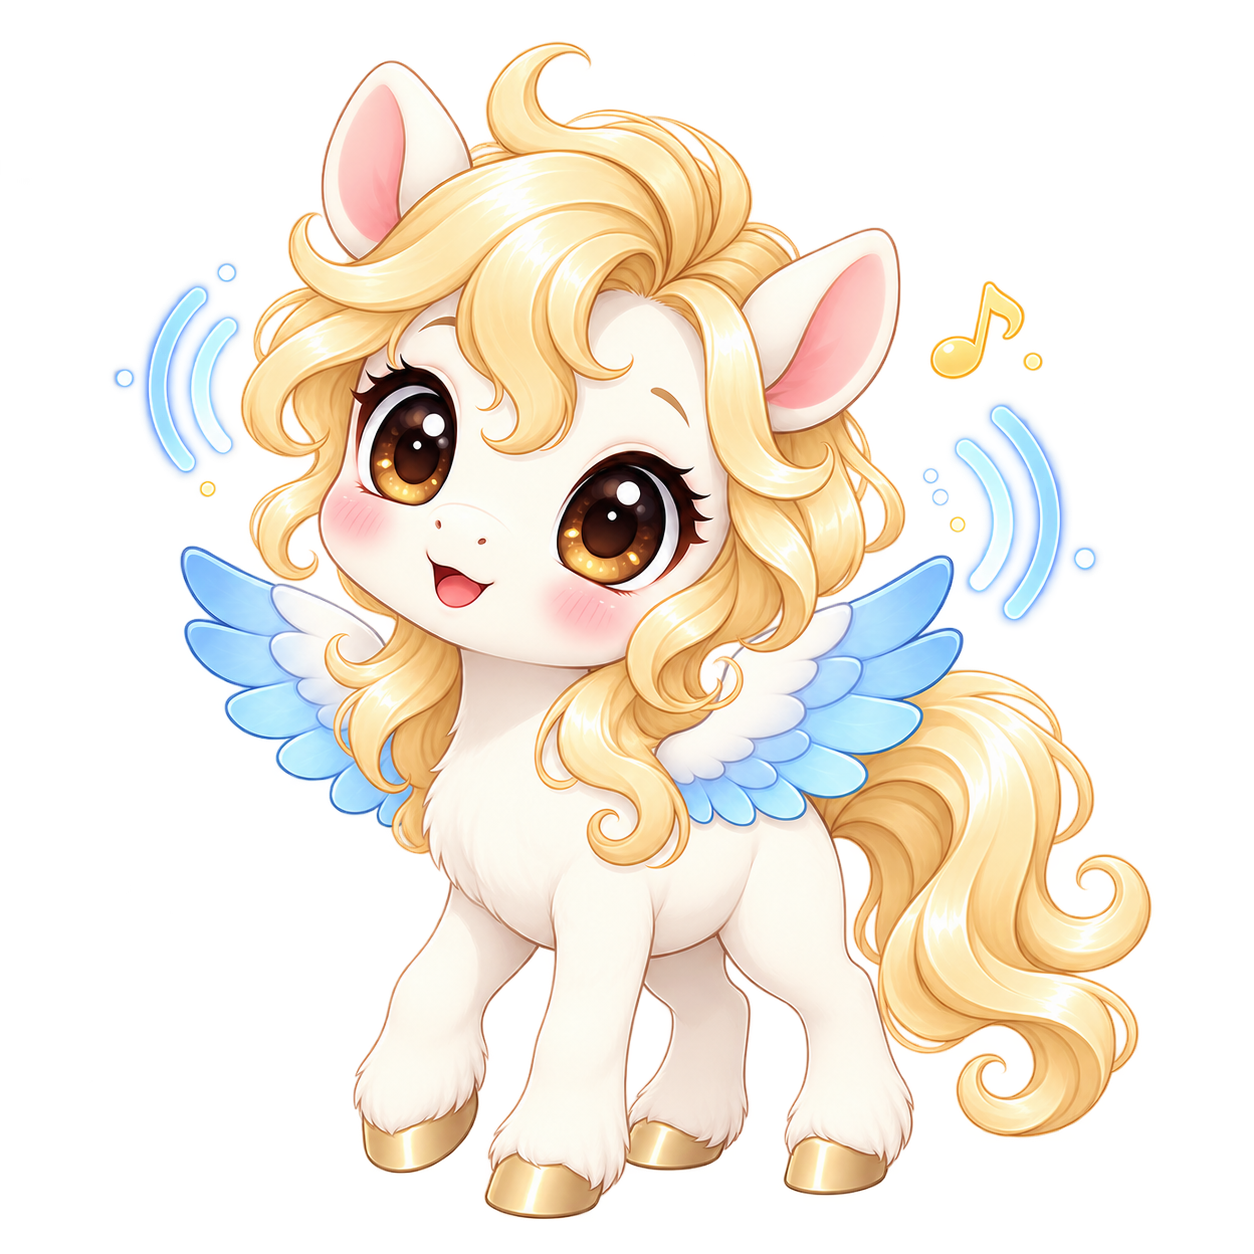
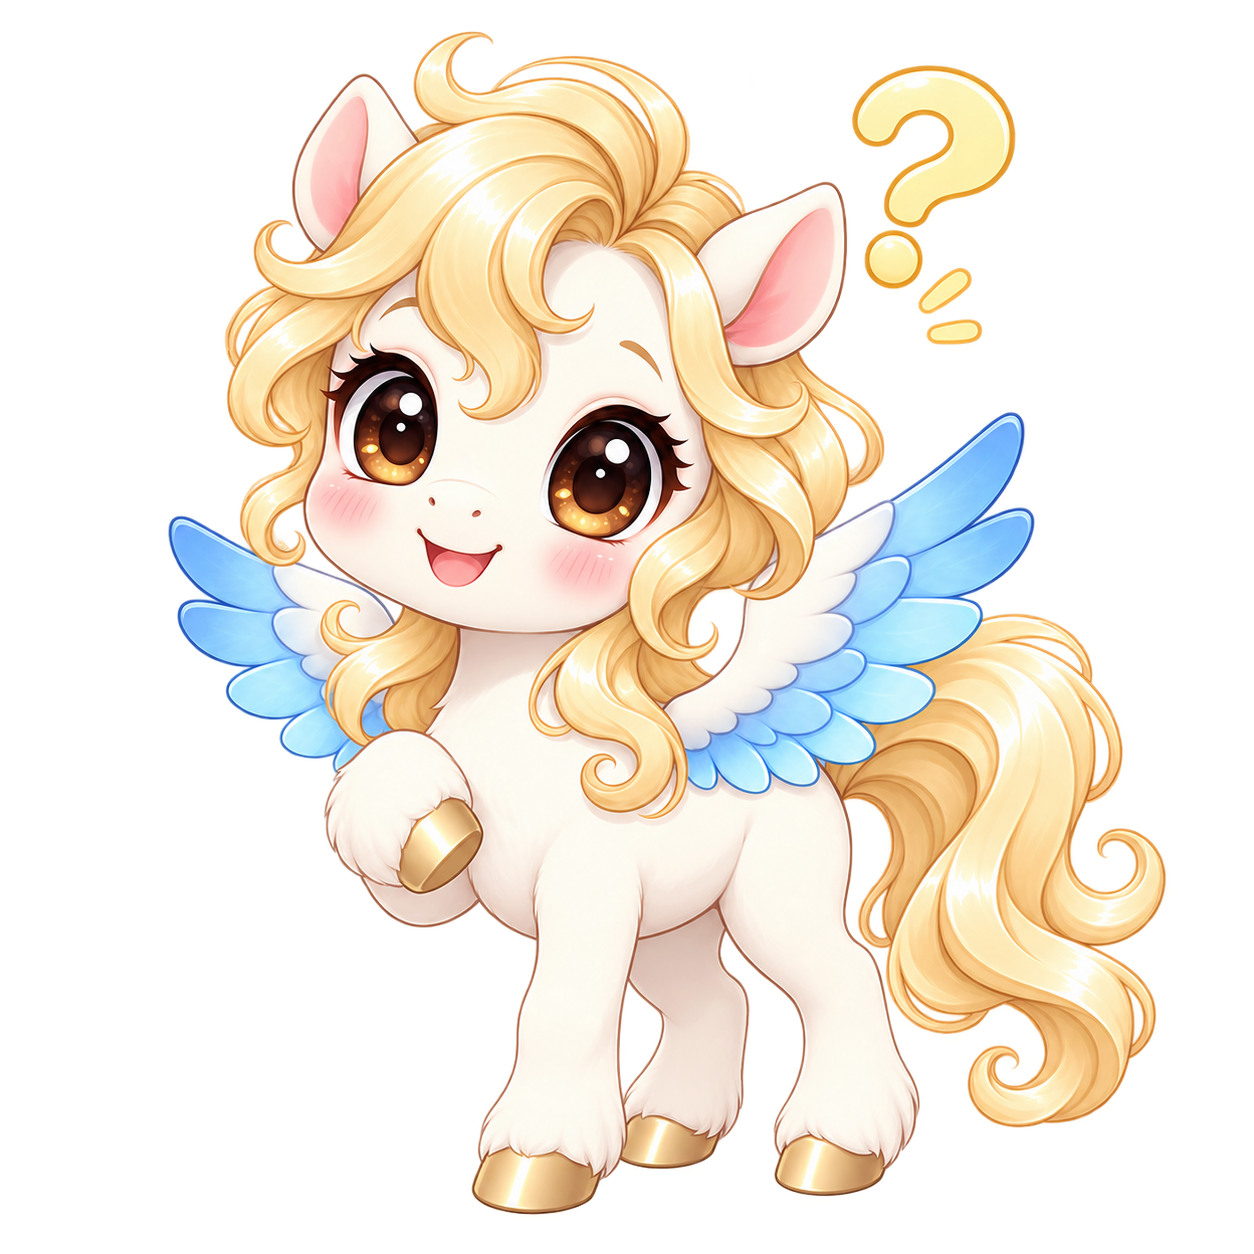
Fix sprite-state mapping per vision audit; use new executing sprite
Vision audit (deepseek-v4-flash-vision-exp) of the 8 sprites corrected the
phase mapping — most originals were mismatched:
- transcribing.png was actually the question-mark (awaiting_confirm) sprite,
  which is why the pet showed a '?' during recognition (user report).
- Correct mapping: idle=img02, recording=img05(sound waves),
  transcribing=img06(thinking bubble+gear), awaiting_confirm=img04('?'),
  executing=img03(flying) -> replaced with user-provided processing/gear
  sprite (df2dc970), done=img07(confetti), error=img01(tears), base=img08.

User generated a new executing sprite (gear + processing vibe, standing pose);
installed as ui/pet/executing.png. Old flying sprite kept in git history.

diff --git a/executor/actions.py b/executor/actions.py
@@ -37,6 +37,15 @@ _VOLUME_ACTIONS = {
     "toggle_mute": ["omarchy", "audio", "output", "volume", "mute-toggle"],
 }
 
+# Simple conventional toggles / launchers (no arguments).
+_SIMPLE_TOGGLES = {
+    "toggle_dnd": ["omarchy", "toggle", "notification", "silencing"],
+    "toggle_mic": ["omarchy", "audio", "input", "mute"],
+    "toggle_bar": ["omarchy", "toggle", "bar"],
+    "open_clipboard": ["omarchy", "menu", "clipboard"],
+    "open_emoji": ["omarchy", "menu", "emoji"],
+}
+
 
 def _launch_detached_cmd(command: str) -> None:
     """Launch a config-supplied command without waiting (never blocks).
@@ -115,6 +124,26 @@ def _open_path(path: str) -> tuple:
     if shutil.which("gio"):
         return _run(["gio", "open", path], timeout=15)
     return _run(["xdg-open", path], timeout=15)
+
+
+def _state_action(action_type: str, state: str) -> tuple:
+    """Run a state-carrying toggle (on/off/toggle) via the conventional command."""
+    if action_type == "set_wifi" and state == "toggle":
+        ok, out = _run(["nmcli", "radio", "wifi"])
+        if ok:
+            state = "off" if "enabled" in out.lower() else "on"
+    if action_type == "set_nightlight":
+        cmd = ["omarchy-shell", "nightlight", state]
+        return _run(cmd, timeout=15)
+    if action_type == "set_bluetooth":
+        return _run(["omarchy", "bluetooth", "power", state], timeout=15)
+    if action_type == "set_wifi":
+        return _run(["nmcli", "radio", "wifi", state], timeout=15)
+    if action_type == "set_touchpad":
+        return _run(["omarchy", "toggle", "touchpad", state], timeout=15)
+    if action_type == "set_power_mode":
+        return _run(["omarchy", "powerprofiles", "set", "autodetect", state], timeout=15)
+    return False, "unknown state action"
 
 
 def _launch_or_focus(target: dict) -> tuple:
@@ -226,5 +255,37 @@ def execute(action: dict, cfg: dict) -> tuple:
 
     if action_type == "lock_screen":
         return _run(["omarchy", "system", "lock"], timeout=20)
+
+    # ---- batch 1: conventional toggles ----
+    if action_type in ("toggle_dnd", "toggle_mic", "toggle_bar"):
+        return _run(_SIMPLE_TOGGLES[action_type], timeout=15)
+
+    if action_type in ("open_clipboard", "open_emoji"):
+        return _run(_SIMPLE_TOGGLES[action_type], timeout=15)
+
+    if action_type in ("set_nightlight", "set_bluetooth", "set_wifi", "set_touchpad", "set_power_mode"):
+        return _state_action(action_type, target.get("state", "toggle"))
+
+    # ---- batch 2: parameterized ----
+    if action_type == "set_reminder":
+        minutes = int(target.get("minutes", 1))
+        message = str(target.get("message") or "")
+        return _run(["omarchy", "reminder", str(minutes), message], timeout=15)
+
+    if action_type == "brightness_up":
+        return _run(["omarchy", "brightness", "display", "+10%"], timeout=15)
+
+    if action_type == "brightness_down":
+        return _run(["omarchy", "brightness", "display", "10%-"], timeout=15)
+
+    # ---- batch 3: destructive / privacy-sensitive ----
+    if action_type in ("shutdown", "reboot", "logout"):
+        return _run(["omarchy", "system", action_type], timeout=30)
+
+    if action_type == "screen_record_start":
+        return _run(["omarchy", "capture", "screenrecording", "--fullscreen"], timeout=20)
+
+    if action_type == "screen_record_stop":
+        return _run(["omarchy", "capture", "screenrecording", "--stop-recording"], timeout=20)
 
     return False, "unknown action type: %s" % action_type

diff --git a/resolver/lookup.py b/resolver/lookup.py
@@ -337,6 +337,23 @@ def resolve_action(action: dict, cfg: dict, aliases: dict) -> dict | None:
             return None
         target = {"kind": "workspace", "id": ws}
 
+    elif action_type in ("set_nightlight", "set_bluetooth", "set_wifi", "set_touchpad"):
+        state = raw or "toggle"
+        if state not in ("on", "off", "toggle"):
+            state = "toggle"
+        target = {"kind": "setting", "state": state}
+
+    elif action_type == "set_power_mode":
+        state = raw if raw in ("power-saver", "balanced", "performance") else "balanced"
+        target = {"kind": "setting", "state": state}
+
+    elif action_type == "set_reminder":
+        try:
+            minutes = int(draft.get("minutes", 1))
+        except (TypeError, ValueError):
+            minutes = 1
+        target = {"kind": "reminder", "minutes": max(1, minutes), "message": raw or ""}
+
     else:
         target = {}
 
@@ -373,6 +390,24 @@ def describe(action: dict) -> str:
         "volume_up": "Volume up",
         "volume_down": "Volume down",
         "toggle_mute": "Toggle mute",
+        "set_nightlight": "Night light",
+        "set_bluetooth": "Bluetooth",
+        "set_wifi": "Wi-Fi",
+        "set_touchpad": "Touchpad",
+        "toggle_dnd": "Do not disturb",
+        "toggle_mic": "Microphone mute",
+        "toggle_bar": "Toggle bar",
+        "open_clipboard": "Open clipboard",
+        "open_emoji": "Open emoji picker",
+        "set_reminder": "Set reminder",
+        "brightness_up": "Brightness up",
+        "brightness_down": "Brightness down",
+        "set_power_mode": "Power mode",
+        "shutdown": "Shut down",
+        "reboot": "Reboot",
+        "logout": "Log out",
+        "screen_record_start": "Start screen recording",
+        "screen_record_stop": "Stop screen recording",
     }
     base = labels.get(t, t)
     if t in ("open_app", "focus_app"):
@@ -381,4 +416,8 @@ def describe(action: dict) -> str:
         return "%s: %s" % (base, target.get("path") or "")
     if t in ("switch_workspace", "move_active_window_to_workspace"):
         return "%s: workspace %s" % (base, target.get("id"))
+    if t in ("set_nightlight", "set_bluetooth", "set_wifi", "set_touchpad", "set_power_mode"):
+        return "%s: %s" % (base, target.get("state"))
+    if t == "set_reminder":
+        return "%s: %s min (%s)" % (base, target.get("minutes"), target.get("message") or "")
     return base

diff --git a/config/catalog.py b/config/catalog.py
@@ -45,6 +45,24 @@ ACTION_DESCRIPTIONS = {
     "volume_up": "Raise the output volume",
     "volume_down": "Lower the output volume",
     "toggle_mute": "Toggle output mute",
+    "set_nightlight": "Enable/disable/toggle the night-light (warm screen)",
+    "set_bluetooth": "Turn Bluetooth on/off/toggle",
+    "set_wifi": "Turn Wi-Fi on/off/toggle",
+    "set_touchpad": "Enable/disable/toggle the touchpad",
+    "toggle_dnd": "Toggle do-not-disturb notifications",
+    "toggle_mic": "Toggle microphone mute",
+    "toggle_bar": "Show/hide the top bar",
+    "open_clipboard": "Open the clipboard manager",
+    "open_emoji": "Open the emoji picker",
+    "set_reminder": "Set a desktop notification reminder (minutes + message)",
+    "brightness_up": "Raise display brightness",
+    "brightness_down": "Lower display brightness",
+    "set_power_mode": "Set power profile (power-saver/balanced/performance)",
+    "shutdown": "Shut down the computer",
+    "reboot": "Reboot the computer",
+    "logout": "Log out of the session",
+    "screen_record_start": "Start a fullscreen screen recording",
+    "screen_record_stop": "Stop the active screen recording",
 }
 
 _HYPRLAND_DISPATCHERS = [

diff --git a/policy/policy.py b/policy/policy.py
@@ -15,6 +15,11 @@ _CONFIRM_TYPES = frozenset({
     "close_active_window",
     "toggle_fullscreen",
     "lock_screen",
+    "shutdown",
+    "reboot",
+    "logout",
+    "screen_record_start",
+    "screen_record_stop",
 })
 
 
